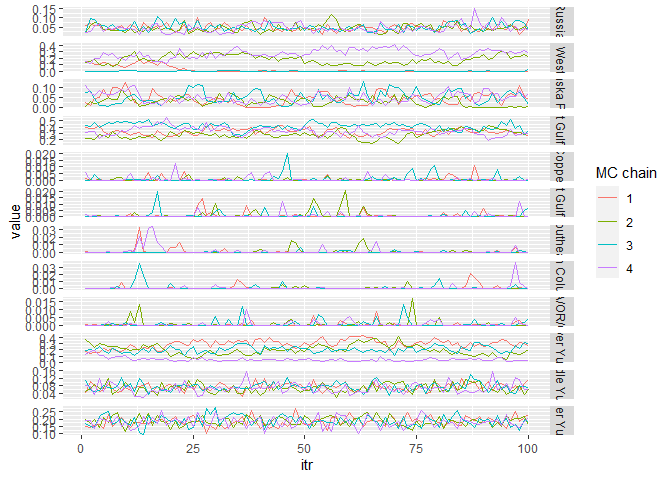
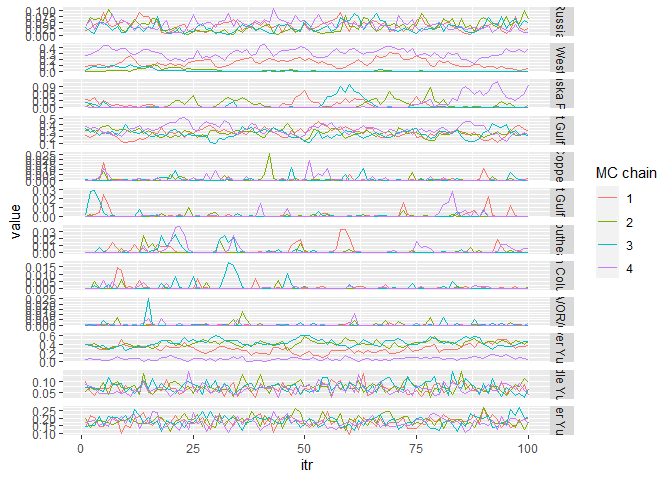
web site initiate

diff --git a/README.md b/README.md
@@ -35,6 +35,7 @@ The fake Chinook data sets are pre-loaded in the *Ms.GSI* package. Here
 we prepare the input data:
 
 ``` r
+
 library(Ms.GSI)
 
 msgsi_dat <-
@@ -42,7 +43,7 @@ msgsi_dat <-
   baseline1_data = base_templin, baseline2_data = base_yukon,
   pop1_info = templin_pops211, pop2_info = yukon_pops50, sub_group = 3:5)
 #> Compiling input data, may take a minute or two...
-#> Time difference of 11.19722 secs
+#> Time difference of 11.47322 secs
 ```
 
 Using the prepared input data, we run the model with four chains of 150
@@ -52,39 +53,41 @@ iterations. We set the first 50 iterations in each chain as the warm-ups
 convergence diagnostics.
 
 ``` r
+
 msgsi_out <- msgsi_mdl(msgsi_dat, nreps = 150, nburn = 50, thin = 1, nchains = 4)
-#> Running model (and the category is... Best Mother!)
-#> Time difference of 4.707205 secs
-#> July-06-2022 11:18
+#> Running model (and the category is... Femme Queen Vogue!)
+#> Time difference of 23.30967 secs
+#> February-13-2023 11:29
 
 msgsi_out$summ_comb
 #> # A tibble: 12 × 8
 #>    group                       mean  median      sd    ci.05   ci.95    GR n_eff
 #>    <chr>                      <dbl>   <dbl>   <dbl>    <dbl>   <dbl> <dbl> <dbl>
-#>  1 Russia                   4.68e-2 4.27e-2 0.0206  1.98e- 2 0.0865   1.01 242. 
-#>  2 Coastal West Alaska      1.22e-1 1.03e-1 0.125   3.51e-13 0.334    3.47  66.5
-#>  3 North Alaska Peninsula   4.34e-2 4.04e-2 0.0275  3.38e- 3 0.0935   1.08 120. 
-#>  4 Northwest Gulf of Alaska 3.39e-1 3.39e-1 0.0771  2.19e- 1 0.468    1.61  85.9
-#>  5 Copper                   6.25e-4 1.14e-6 0.00191 1.08e-18 0.00419  1.08 362. 
-#>  6 Northeast Gulf of Alaska 7.74e-4 6.46e-7 0.00250 1.96e-17 0.00587  1.02 335. 
-#>  7 Coastal Southeast Alaska 9.97e-4 1.42e-6 0.00366 1.49e-17 0.00523  1.10 259. 
-#>  8 British Columbia         9.77e-4 2.74e-6 0.00347 2.69e-19 0.00534  1.05 252. 
-#>  9 WA/OR/CA                 6.36e-4 2.20e-6 0.00191 6.32e-16 0.00373  1.04 301. 
-#> 10 Lower Yukon              1.89e-1 1.96e-1 0.110   2.26e- 2 0.363    2.49  89.7
-#> 11 Middle Yukon             7.11e-2 6.94e-2 0.0229  3.72e- 2 0.111    1.02 374. 
-#> 12 Upper Yukon              1.85e-1 1.84e-1 0.0333  1.34e- 1 0.242    1.01 523.
+#>  1 Russia                   3.66e-2 3.49e-2 0.0205  9.07e- 3 0.0745   1.02  94.4
+#>  2 Coastal West Alaska      1.19e-1 6.95e-2 0.132   1.20e-13 0.369    3.81  45.5
+#>  3 North Alaska Peninsula   1.04e-2 2.95e-4 0.0194  4.33e-14 0.0562   1.04  68.6
+#>  4 Northwest Gulf of Alaska 2.74e-1 2.69e-1 0.0710  1.59e- 1 0.399    1.17  90.9
+#>  5 Copper                   8.05e-4 3.00e-6 0.00252 1.15e-17 0.00459  1.02 318. 
+#>  6 Northeast Gulf of Alaska 1.09e-3 2.41e-6 0.00370 2.16e-17 0.00590  1.04 181. 
+#>  7 Coastal Southeast Alaska 2.29e-3 5.20e-6 0.00584 9.36e-17 0.0149   1.02 168. 
+#>  8 British Columbia         6.66e-4 8.01e-7 0.00210 1.79e-21 0.00407  1.11 283. 
+#>  9 WA/OR/CA                 4.54e-4 1.79e-7 0.00184 9.78e-20 0.00222  1.09 400  
+#> 10 Lower Yukon              3.05e-1 3.50e-1 0.160   4.15e- 2 0.517    3.40  97.5
+#> 11 Middle Yukon             7.13e-2 6.96e-2 0.0214  3.94e- 2 0.110    1.03 400  
+#> 12 Upper Yukon              1.79e-1 1.79e-1 0.0322  1.28e- 1 0.234    1.01 339.
 ```
 
 There’s a function in the package to make trace plots and inspect mixing
 of chains.
 
 ``` r
+
 tr_plot(obj = msgsi_out$trace_comb)
 ```
 
 <img src="man/figures/README-example_trace_plot-1.png" width="100%" />
 
-We also documented in details on the mathematical model of multistage
-framework and instructions for using *Ms.GSI* package. Once you
-installed *Ms.GSI*, you can call the document using
-`vignette("msgsi_vignette")`.
+Details of the mathematical model of integrated multistage framework and
+instructions for using *Ms.GSI* package can be found in the “articles”
+tab of the package website. Or, once you installed *Ms.GSI*, you can
+call the article using `vignette("msgsi_vignette")`.
